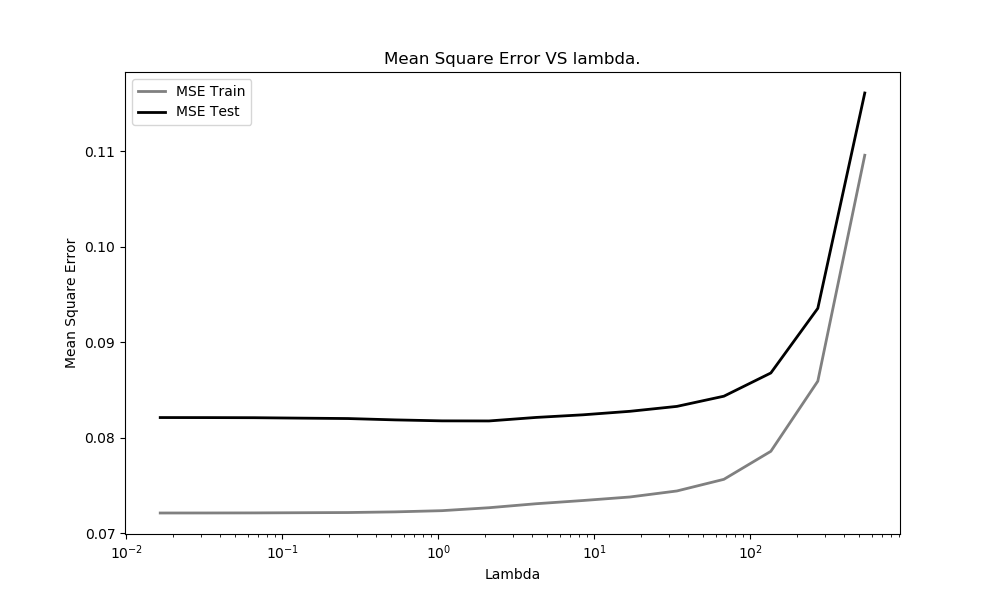
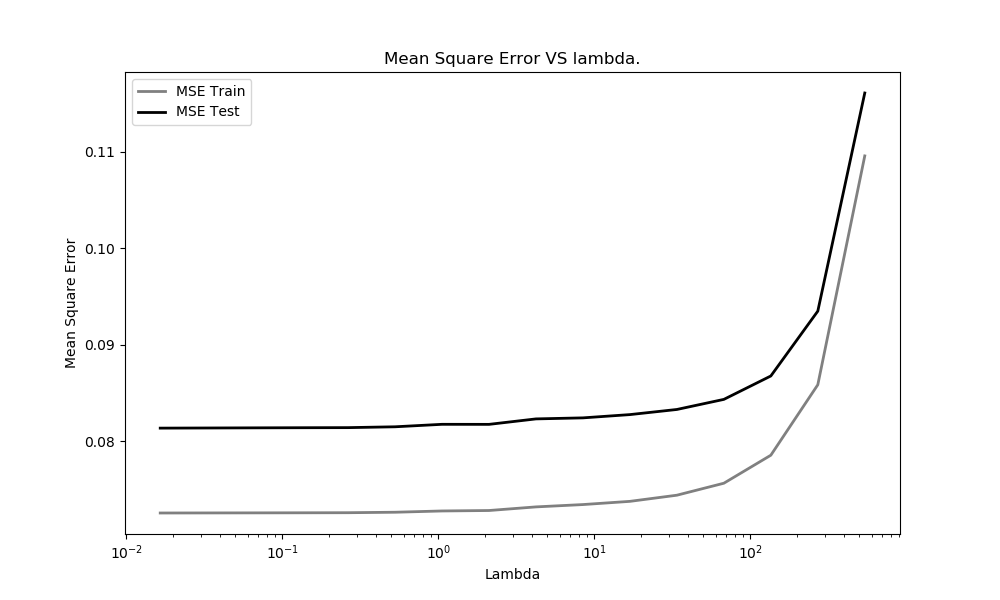
More plot updates. Updates to precission value for A5.

diff --git a/HW2/HW2_code_solutions/coordinate_descent.py b/HW2/HW2_code_solutions/coordinate_descent.py
@@ -331,7 +331,7 @@ def mean_square_error(x, y, w):
     return (a.T @ a)/len(y)
 
 
-def A5ab(tolerance=0.0001):
+def A5ab(tolerance=0.001):
     """Sets the data up as instructed by problem A5 and runs coordinate
     descent Lasso algorithm untill the change in regularization parameter is
     smaller than 0.01. Each iteration decreases regularization parameter by a
@@ -404,7 +404,7 @@ def A5ab(tolerance=0.0001):
     plt.show()
 
 
-def A5cd(tolerance=0.0001):
+def A5cd(tolerance=0.001):
     """Sets the data up as instructed by problem A5 and runs coordinate
     descent Lasso algorithm with regularization value of 30. 
 
